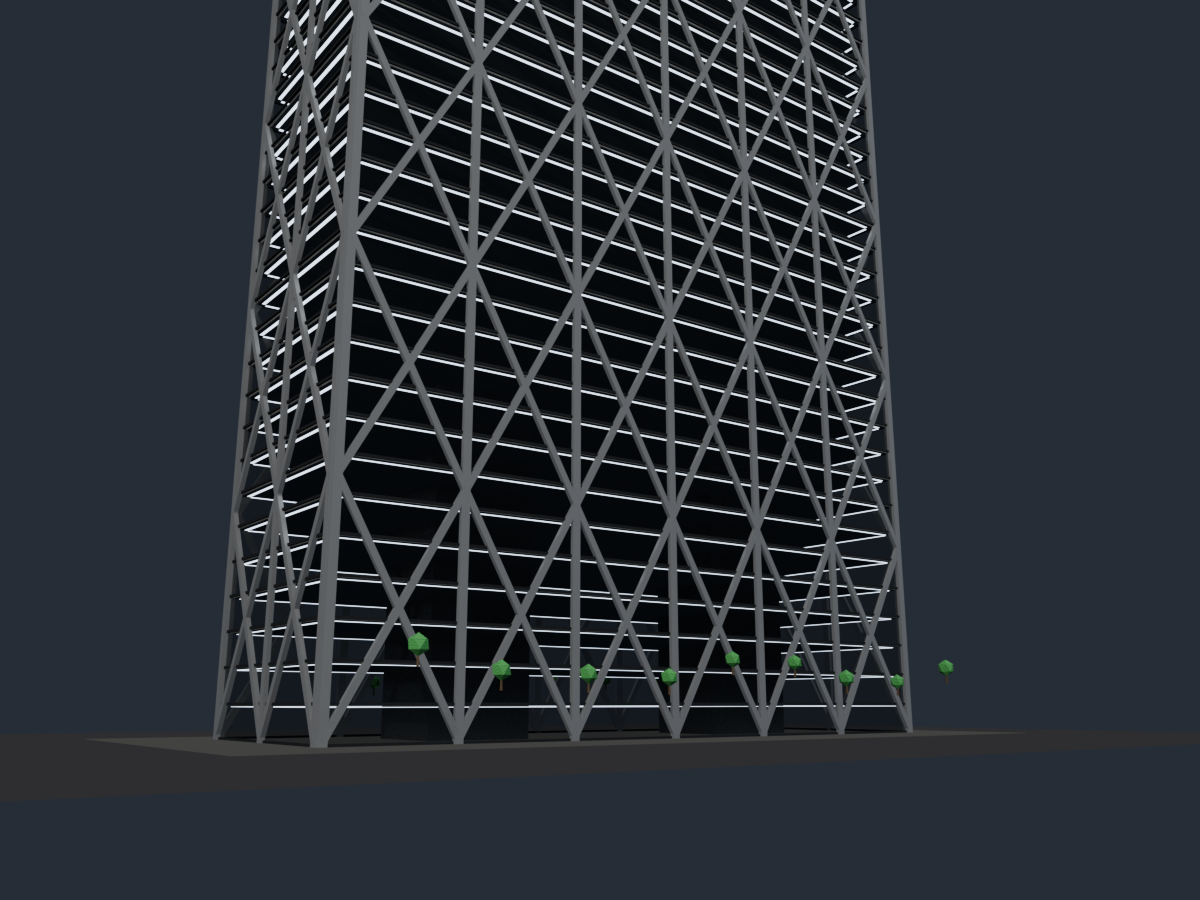
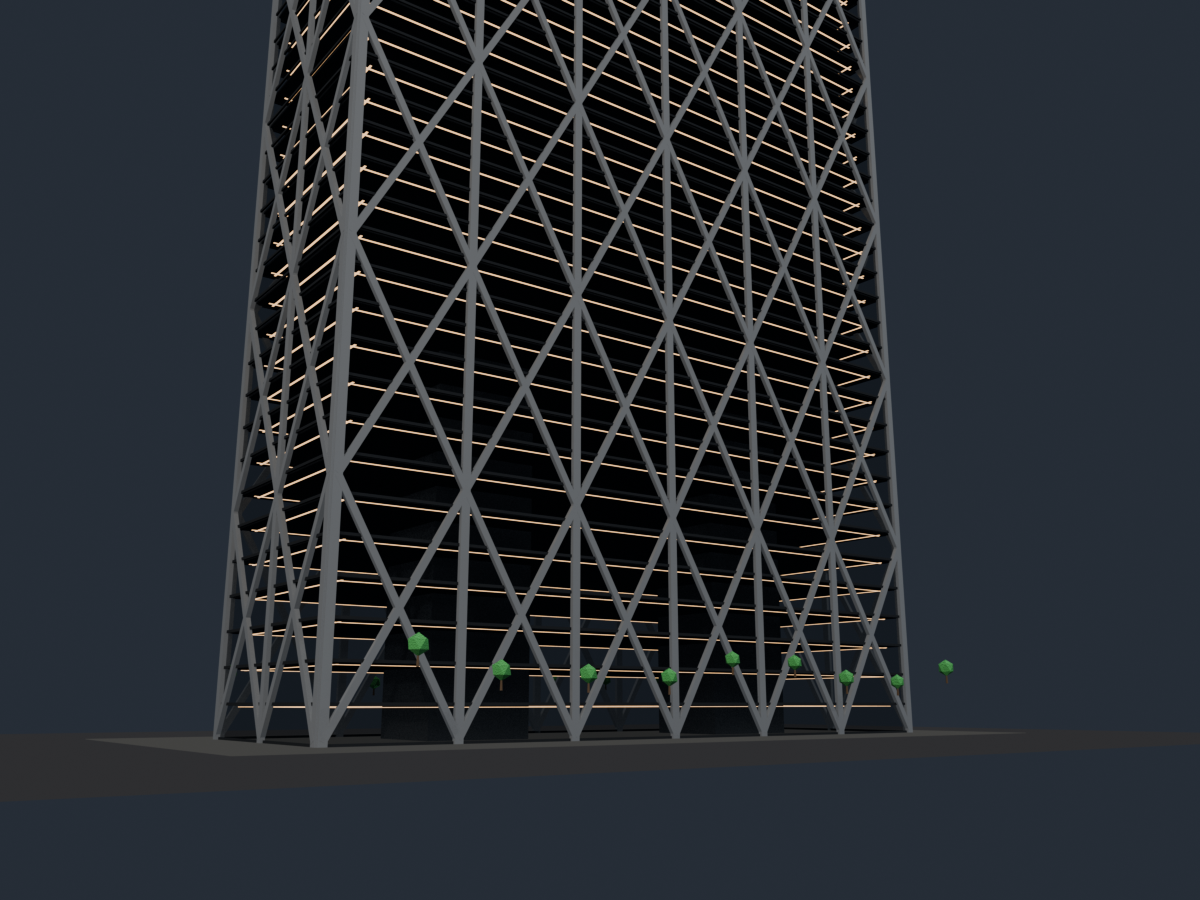
fix: make every Stack 3 floor plate near-black
The slab band was dark but the plates themselves, and the transfer slabs, were
still light concrete and read as white lines through the glazing. All floor
plates are now near-black, and the lower block's ceiling strips are narrower,
warmer and deeper-set so they read as a soft glow rather than white edges.

Changed region(s): [[0.185, 0.0, 0.74, 0.7467], [0.6475, 0.7467, 0.6783, 0.7778], [0.4933, 0.7778, 0.5242, 0.8089]]

diff --git a/build_stack3.py b/build_stack3.py
@@ -322,6 +322,8 @@ def build_materials(night=False):
         "slate": materials.make_concrete("Stack3_Slate", color=(0.022, 0.024, 0.027)),
         "black": materials.make_concrete("Stack3_Black", color=(0.020, 0.021, 0.024)),
         "slab": materials.make_concrete("Stack3_Slab", color=(0.34, 0.35, 0.35)),
+        "slab_dark": materials.make_concrete("Stack3_Slab_Dark",
+                                             color=(0.040, 0.042, 0.045)),
         "core": materials.make_concrete("Stack3_Core", color=(0.10, 0.11, 0.12)),
         "ground": make_unlit("Stack3_Ground", (0.055, 0.055, 0.058)),
         "plaza": make_unlit("Stack3_Plaza", (0.085, 0.085, 0.082)),
@@ -338,6 +340,8 @@ def build_materials(night=False):
             "Stack3_Light_Daylight", materials.CEILING_LIGHT_DAYLIGHT, 9.0),
         "light_dim": materials.make_ceiling_light(
             "Stack3_Light_Dim", (0.72, 0.82, 0.95), 3.2),
+        "light_glow": materials.make_ceiling_light(
+            "Stack3_Light_Glow", (1.0, 0.66, 0.38), 2.2),
         "light_warm": materials.make_ceiling_light(
             "Stack3_Light_Warm", (1.0, 0.55, 0.25), 7.5),
         "glow_cool": materials.make_ceiling_light(
@@ -379,7 +383,7 @@ def build_site(mats, cols, rng):
 
 
 def build_floors(mats, cols):
-    p = Part("Structure_Floors", mats["slab"], cols["Structure"])
+    p = Part("Structure_Floors", mats["slab_dark"], cols["Structure"])
     for z in floor_levels():
         if z <= ROOF - 0.6:
             p.box((0, 0, z - 0.175), (WIDTH - 1.4, DEPTH - 1.4, 0.35))
@@ -387,7 +391,7 @@ def build_floors(mats, cols):
 
     # Transfer slabs on the band lines read through the glazed bands as the
     # same thick floor the truss-less bands sit on.
-    p = Part("Structure_Transfer_Slabs", mats["concrete"], cols["Structure"])
+    p = Part("Structure_Transfer_Slabs", mats["slab_dark"], cols["Structure"])
     for name, z0, z1 in BANDS[1:-1]:
         p.box((0, 0, z0 - 0.35), (WIDTH - 0.8, DEPTH - 0.8, 0.7))
     p.finish()
@@ -481,15 +485,15 @@ def build_lattice(mats, cols):
     brace.finish()
 
     # Warm hall below, cool floors above; one strip per 5 m storey.
-    warm = Part("Lattice_Lights_Warm", mats["light_dim"], col)
-    cool = Part("Lattice_Lights_Cool", mats["light_dim"], col)
+    warm = Part("Lattice_Lights_Warm", mats["light_glow"], col)
+    cool = Part("Lattice_Lights_Cool", mats["light_glow"], col)
     for face in FACES:
         half = face_half(face)
         for z in floor_levels():
             if 1.0 < z <= z1:
                 part = warm if z < 86.0 else cool
-                storey_lights(part, face, half, z - 0.50, inset=2.0,
-                              depths=(1.5,))
+                storey_lights(part, face, half, z - 0.52, inset=2.0,
+                              depths=(2.9,), width=0.30)
     warm.finish()
     cool.finish()
 
@@ -620,15 +624,15 @@ BLOCK_L = 10.8
 BLOCK_JOINT = 0.25
 
 
-def storey_lights(part, face, half, z, inset=2.0, depths=(1.5, 3.0)):
-    """Two continuous ceiling strips across one storey, seen through the glass."""
+def storey_lights(part, face, half, z, inset=2.0, depths=(1.5,), width=0.50):
+    """Continuous ceiling strips across one storey, seen through the glass."""
     span = 2 * half - 2 * inset
     for depth in depths:
         p = fp(face, 0.0, z, -depth)
         if face in LONG_FACES:
-            part.box((p.x, p.y, z), (span, 0.50, 0.07))
+            part.box((p.x, p.y, z), (span, width, 0.07))
         else:
-            part.box((p.x, p.y, z), (0.50, span, 0.07))
+            part.box((p.x, p.y, z), (width, span, 0.07))
 
 
 def ceiling_strip(part, face, u0, u1, z, depth, rng):

diff --git a/README.md b/README.md
@@ -245,9 +245,10 @@ module and run 28 floors.
 - **Lattice, 0-190 m.** The whole lower block is one facade: an external frame six
   bays wide by six tiers tall, with an X brace in every cell - six crosses per
   row, six rows. The frame carries vertical posts only: no added horizontal
-  band, the floor line is the slab edge itself. Behind it is one dark glass skin
-  with no visible pane joints at all - no mullions between the panes - and a warm
-  lit hall behind the lower floors, cool floors above.
+  band, the floor line is the dark slab edge itself; every floor plate in the
+  model is near-black. Behind it is one dark glass skin with no visible pane
+  joints at all - no mullions between the panes - and a soft warm ceiling strip
+  on every floor.
 - **Plaza, 190-220 m.** A planted arcade of branching tree columns.
 - **Apartments, 220-334 m.** A semi-transparent glazed skin drawn as a staggered
   block grid: every bay is one 4 m storey of glass, laid in a half-bond running
